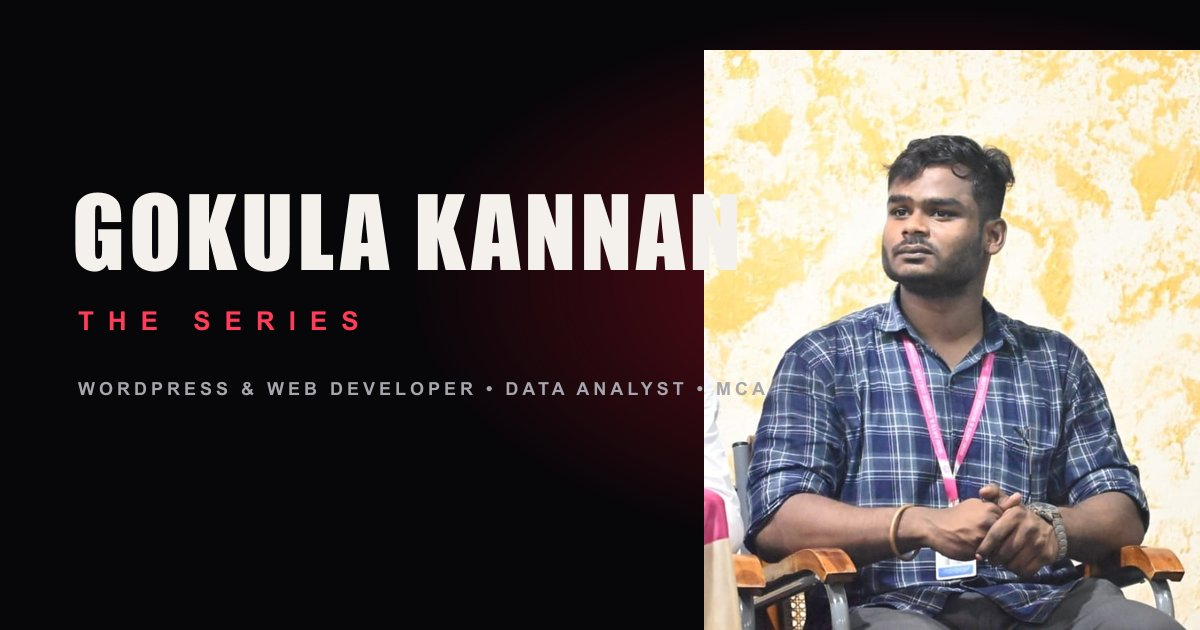
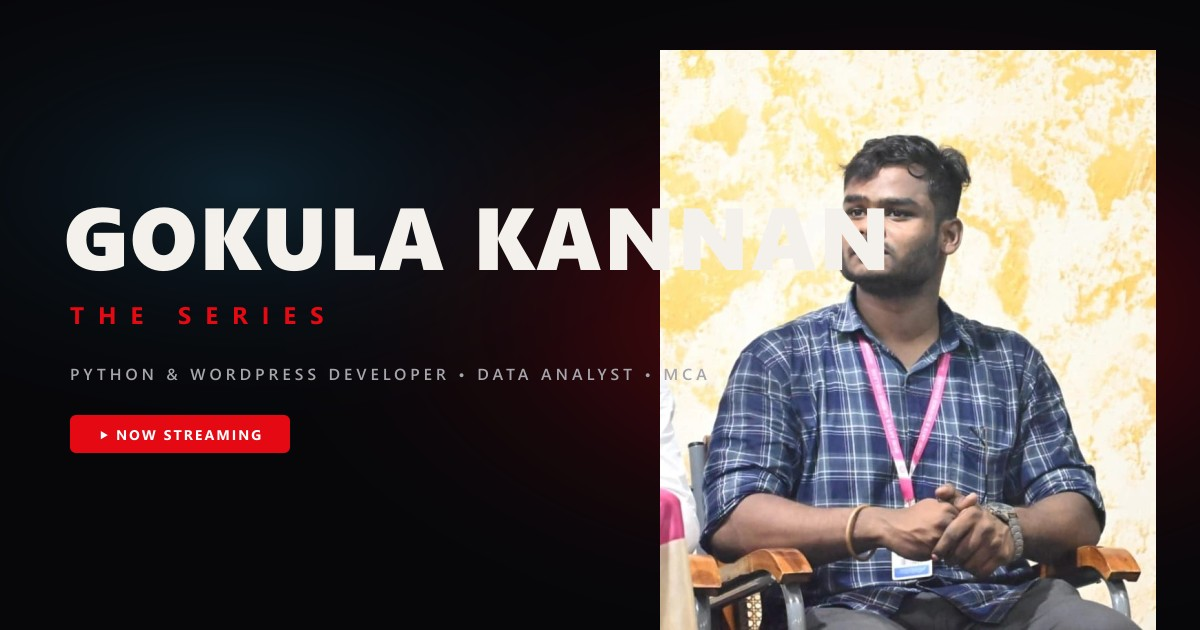
chore: purge all previous template references, regenerate official og-image, and promote About section to top across all profiles

diff --git a/src/data/portfolio.ts b/src/data/portfolio.ts
@@ -865,28 +865,28 @@ export const viewerProfiles: {
     name: 'Gokula Kannan',
     blurb: 'The full series, in order',
     color: '#e50914',
-    order: ['about', 'originals', 'gallery', 'journey', 'picks', 'skills', 'moments', 'story'],
+    order: ['about', 'originals', 'gallery', 'story', 'skills', 'moments', 'journey', 'picks'],
   },
   {
     id: 'recruiter',
     name: 'Recruiter',
-    blurb: 'Resume, achievements & skills first',
+    blurb: 'About, resume, skills & achievements first',
     color: '#38bdf8',
-    order: ['story', 'moments', 'skills', 'originals', 'gallery', 'about', 'journey', 'picks'],
+    order: ['about', 'story', 'skills', 'moments', 'originals', 'gallery', 'journey', 'picks'],
   },
   {
     id: 'developer',
     name: 'Developer',
-    blurb: 'Originals, stack & gallery first',
+    blurb: 'About, originals, stack & gallery first',
     color: '#34d399',
-    order: ['originals', 'gallery', 'skills', 'journey', 'moments', 'about', 'picks', 'story'],
+    order: ['about', 'originals', 'gallery', 'skills', 'moments', 'journey', 'picks', 'story'],
   },
   {
     id: 'creative',
     name: 'Creative',
-    blurb: 'Visual gallery, story arc & highlights',
+    blurb: 'About, gallery & visual originals first',
     color: '#fbbf24',
-    order: ['gallery', 'originals', 'journey', 'picks', 'moments', 'about', 'skills', 'story'],
+    order: ['about', 'gallery', 'originals', 'skills', 'journey', 'moments', 'picks', 'story'],
   },
 ];
 

diff --git a/src/components/QuickNav.tsx b/src/components/QuickNav.tsx
@@ -24,12 +24,14 @@ export default function QuickNav({ onResume, onPlayIntro }: { onResume: () => vo
 
   const navItems = [
     { label: 'Hero Billboard', id: 'top', icon: '🎬' },
+    { label: 'About Gokul (Pilot)', id: 'about', icon: '👤' },
     { label: 'Originals (Projects)', id: 'originals', icon: '⭐' },
     { label: 'Project Gallery', id: 'gallery', icon: '🖼' },
-    { label: 'My Journey (Seasons)', id: 'journey', icon: '⏳' },
+    { label: 'The Full Story (Resume)', id: 'story', icon: '📄' },
     { label: 'Skills Universe', id: 'skills', icon: '⚡' },
-    { label: 'Top Moments & GAIT', id: 'moments', icon: '🏆' },
-    { label: 'Contact & Formspree', id: 'contact', icon: '✉' },
+    { label: 'Top Moments & Honors', id: 'moments', icon: '🏆' },
+    { label: 'Journey & Experience', id: 'journey', icon: '⏳' },
+    { label: 'Contact & Hire', id: 'contact', icon: '✉' },
   ];
 
   const jump = (id: string) => {
